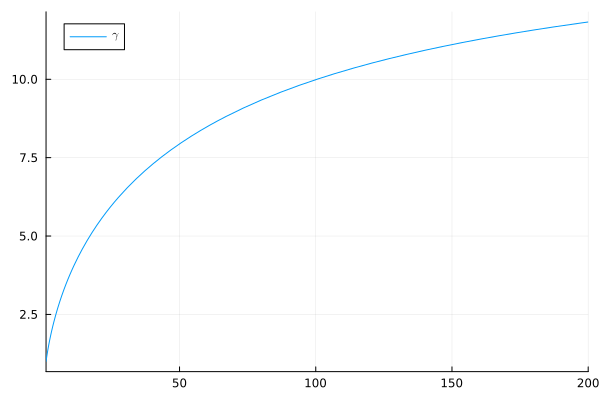
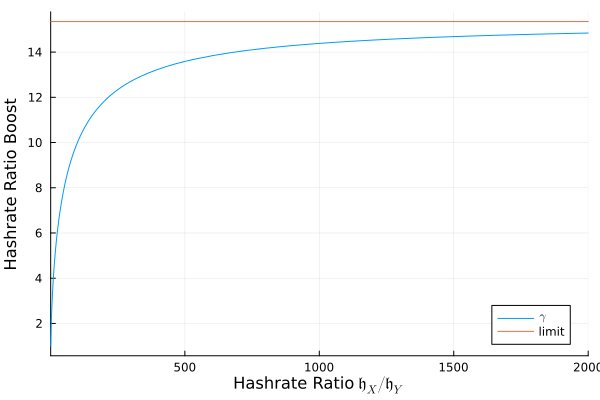
new chart

diff --git a/Janushash/analysis/hashrate-ratio.md b/Janushash/analysis/hashrate-ratio.md
@@ -21,7 +21,7 @@ $$
 
 for $a\ge 1$ (again mind the small range $[1,(1-c)^{-1}$] where the reasoning is not correct). We therefore call $\gamma(a)$ the *hashrate ratio boost* for hashrate ratio $a$. It is a multiplicative factor applied to a hypothetical reference Janusscore $S(\mathfrak{h}_X,\mathfrak{h}_X)$ to express $S(\mathfrak{h}_X,\mathfrak{h}_Y)$. The function $\gamma$ looks like this:
 
-![Acceptance Region](/img/miningratio_boost.png)
+![Mining Ratio Boost](/img/miningratio_boost.png)
 
 
 ==- Julia code to plot this function
@@ -32,7 +32,8 @@ beta = 0.7
 f(a) = a*((c+1/a)^(1-beta)-c^(1-beta))
 g(x)=f(x)/f(1)
 using Plots
-p = plot(g, xlim=[1,200], label = "\$\\gamma\$")
+p = plot(g, xlim=[1,2000], label = "\$\\gamma\$", ylabel = "Hashrate Ratio Boost", xlabel = "Hashrate Ratio \$\\mathfrak{h}_X/\\mathfrak{h}_Y\$")
+hline!([15.35], label="limit")
 ```
 ===
 
@@ -51,6 +52,21 @@ $$
 where we used [L'Hôpital's rule](https://en.wikipedia.org/wiki/L%27H%C3%B4pital%27s_rule) in the third step and finally plugged in the constant $c = 0.005$. This means that hashrate ratio boost cannot go above $\approx 15.35$ no matter how much Sha256t hashrate is thrown into the game. The higher the hashrate ratio of GPU/CPU hashrates, the more CPU, i.e. Verushash v2.1 hashrate becomes the bottleneck. 
 
 This is intended and protects Warthog against ASICs applied to Sha256t. Such mining behavior will suffer heavily from being bottlenecked by CPU hashrate.
+
+For example in the setting where the CPU hashrate is 40mh/s we have the following Janusscore curve and no ASIC on SHA256t can increase it above the limit of $\approx 1632.15$ mh/s.
+![Janusscore for fixed Verus hashrate 40mh/s](/img/janusscore_demo_40mh.png)
+
+==- Julia code to plot this function
+
+```julia
+c = 0.005
+hx = 40
+S(hx, hy) = hy * 10 * ((c + hx/hy)^0.3 - c^0.3)/3
+p = plot(hy->S(hx,hy), xlim=[1,6000], label = "Janusscore", ylabel = "mh/s", xlabel = "GPU hashrate in mh/s")
+hline!([15.35*S(hx,hx)], label="limit")
+```
+===
+
 
 ## Estimating Hashrate Ratio from mined blocks
 
